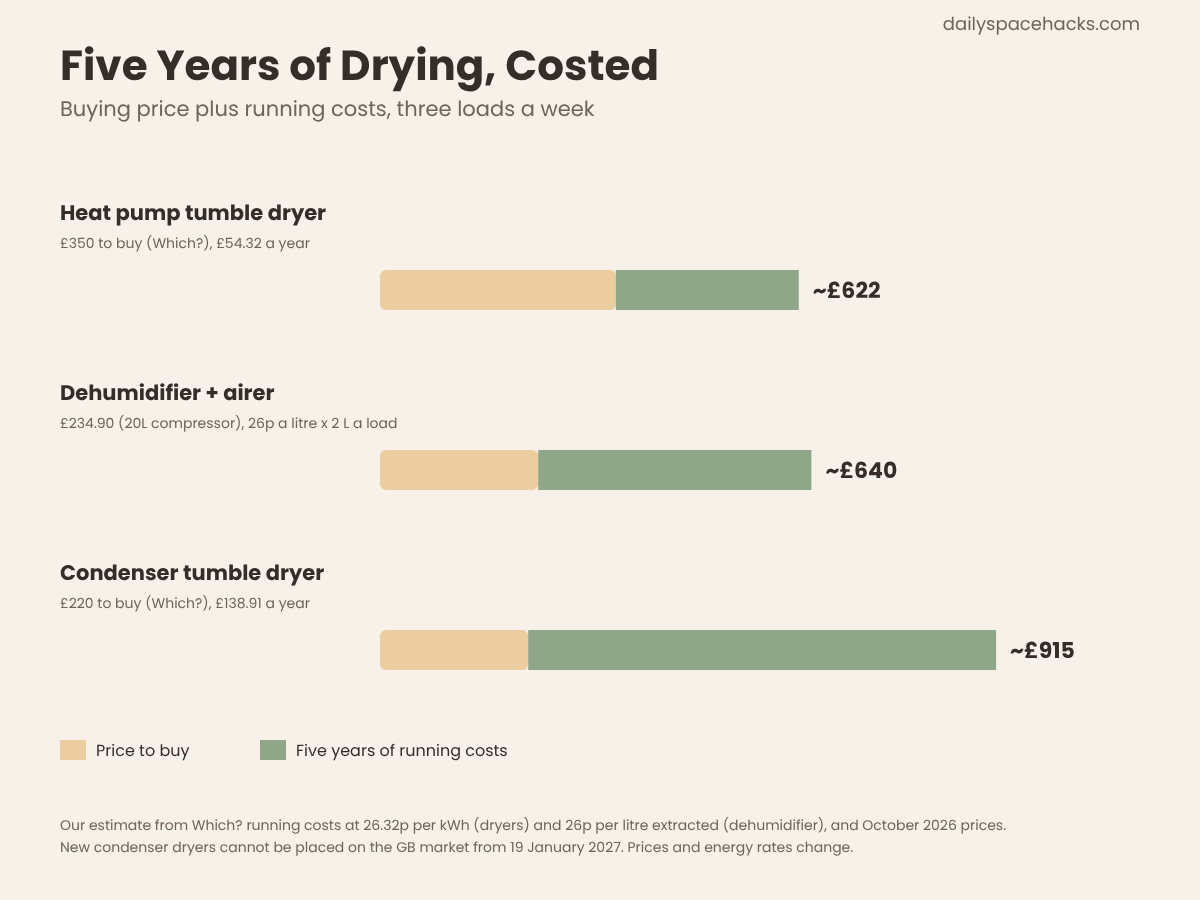
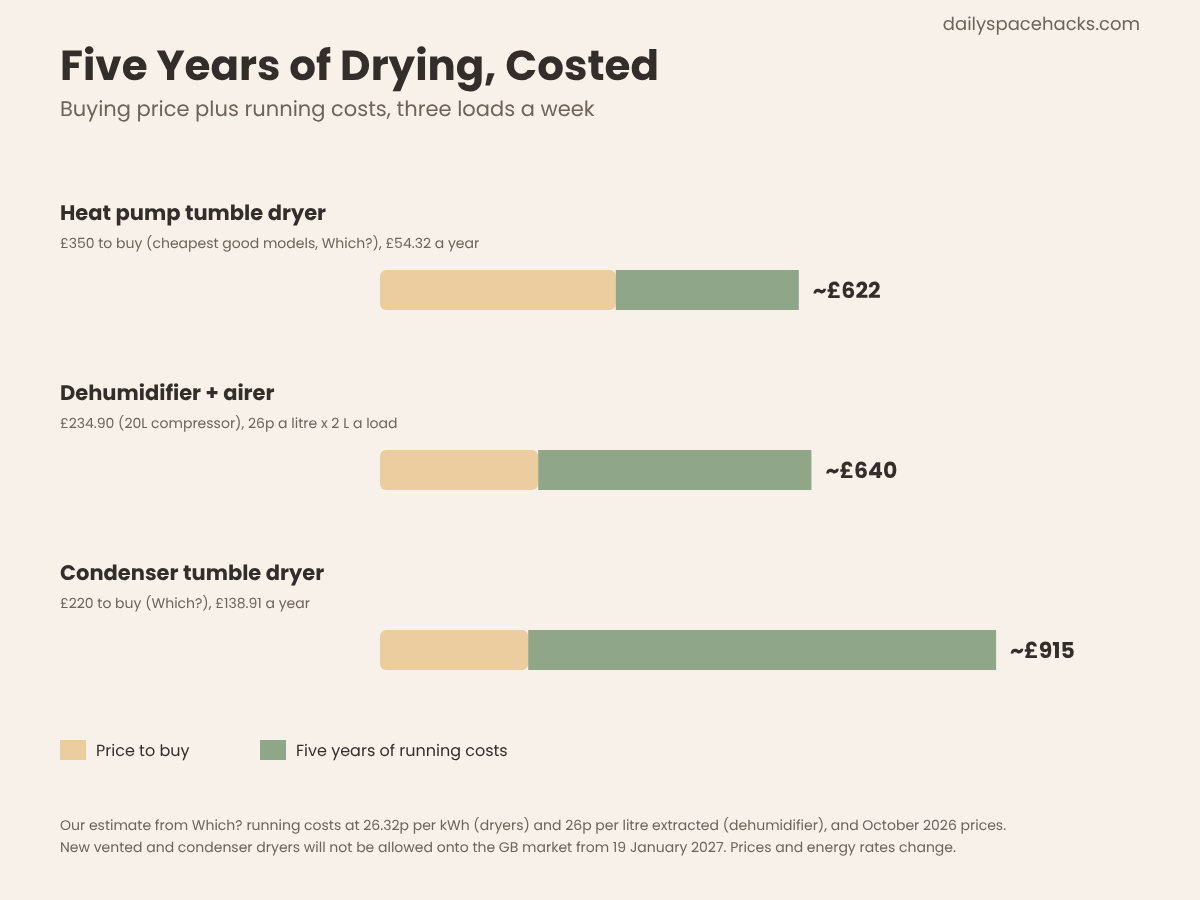
dehum: fact-check fixes

Changed region(s): [[0.0925, 0.9333, 0.8017, 0.9644], [0.1233, 0.2489, 0.4008, 0.28]]

diff --git a/tools/dehum/content.html b/tools/dehum/content.html
@@ -1,5 +1,5 @@
 <!-- wp:paragraph -->
-<p>In the dehumidifier vs tumble dryer choice for drying clothes, a heat pump tumble dryer is usually cheaper per load and much faster than a dehumidifier, but a dehumidifier is cheaper to buy, takes up less space and also dries out a damp home. Which? tested both and found a dehumidifier <a href="https://www.which.co.uk/news/article/can-you-use-a-dehumidifier-to-dry-laundry-aX79m5I0XFVm" target="_blank" rel="noopener">would still cost more and take longer</a> than the most cost-effective tumble dryers. Over five years, though, our sums put a dehumidifier and airer within about £20 of a heat pump dryer.</p>
+<p>For drying clothes, a heat pump tumble dryer is usually cheaper per load and faster than a dehumidifier, but a dehumidifier is cheaper to buy, takes up less space and also dries out a damp home. Which? tested both and found a dehumidifier <a href="https://www.which.co.uk/news/article/can-you-use-a-dehumidifier-to-dry-laundry-aX79m5I0XFVm" target="_blank" rel="noopener">would still cost more and take longer</a> than the most cost-effective tumble dryers. Over five years, though, our sums put a dehumidifier and airer within about £20 of one of the cheapest heat pump dryers, and about £130 cheaper than a more typical £500 model.</p>
 <!-- /wp:paragraph -->
 
 <!-- wp:list -->
@@ -23,7 +23,7 @@
 <!-- /wp:heading -->
 
 <!-- wp:table -->
-<figure class="wp-block-table"><table><thead><tr><th></th><th>Dehumidifier + airer</th><th>Heat pump dryer</th><th>Condenser dryer</th></tr></thead><tbody><tr><td>Cost per load</td><td><a href="https://www.which.co.uk/news/article/can-you-use-a-dehumidifier-to-dry-laundry-aX79m5I0XFVm" target="_blank" rel="noopener">about 52p</a> (26p a litre, about 2 litres)</td><td>about 35p</td><td>about 89p</td></tr><tr><td>Yearly running cost (3 loads a week)</td><td>about £81 (our estimate)</td><td><a href="https://www.which.co.uk/news/article/which-type-of-tumble-dryers-are-cheapest-to-run-aUOSv7x39Rdo" target="_blank" rel="noopener">£54.32</a></td><td>£138.91</td></tr><tr><td>Typical price to buy</td><td>£140 to £310</td><td>£327 to £1,699 (avg £727)</td><td><a href="https://www.which.co.uk/reviews/tumble-dryers/article/how-to-buy-the-best-tumble-dryer-a2Xa42O3YWK7" target="_blank" rel="noopener">£220 to £529</a></td></tr><tr><td>Drying time</td><td>Slower; Which? says it almost halves airer time</td><td>Hours</td><td>Hours</td></tr><tr><td>Also dries the house</td><td>Yes</td><td>No</td><td>No</td></tr><tr><td>Space</td><td>Small, moves room to room</td><td>Needs a dedicated spot</td><td>Needs a dedicated spot</td></tr></tbody></table></figure>
+<figure class="wp-block-table"><table><thead><tr><th></th><th>Dehumidifier + airer</th><th>Heat pump dryer</th><th>Condenser dryer</th></tr></thead><tbody><tr><td>Cost per load</td><td><a href="https://www.which.co.uk/news/article/can-you-use-a-dehumidifier-to-dry-laundry-aX79m5I0XFVm" target="_blank" rel="noopener">about 52p</a> (our estimate: Which?'s 26p a litre x about 2 litres)</td><td>about 35p</td><td>about 89p</td></tr><tr><td>Yearly running cost (3 loads a week)</td><td>about £81 (our estimate)</td><td><a href="https://www.which.co.uk/news/article/which-type-of-tumble-dryers-are-cheapest-to-run-aUOSv7x39Rdo" target="_blank" rel="noopener">£54.32</a></td><td>£138.91</td></tr><tr><td>Typical price to buy</td><td><a href="https://www.which.co.uk/news/article/best-dehumidifier-deals-ayGLW4e9tn3o" target="_blank" rel="noopener">about £140 to £400</a></td><td>£327 to £1,699 (avg £727)</td><td><a href="https://www.which.co.uk/reviews/tumble-dryers/article/how-to-buy-the-best-tumble-dryer-a2Xa42O3YWK7" target="_blank" rel="noopener">£220 to £529</a></td></tr><tr><td>Drying time</td><td>Slower; Which? found it almost halves drying time</td><td>Hours</td><td>Hours</td></tr><tr><td>Also dries the house</td><td>Yes</td><td>No</td><td>No</td></tr><tr><td>Space</td><td>Small, moves room to room</td><td>Needs a dedicated spot</td><td>Needs a dedicated spot</td></tr></tbody></table></figure>
 <!-- /wp:table -->
 
 <!-- wp:paragraph -->
@@ -35,11 +35,11 @@
 <!-- /wp:heading -->
 
 <!-- wp:html -->
-<figure class="dsh-diagram"><svg xmlns="http://www.w3.org/2000/svg" viewBox="0 0 1200 900" font-family="Poppins, sans-serif" role="img" aria-labelledby="dh-t dh-d"><title id="dh-t">Five-year cost of drying laundry</title><desc id="dh-d">Estimated five-year cost of drying three loads a week (156 loads a year). Heat pump tumble dryer: £350 to buy plus about £54 a year, about £622 over five years; Dehumidifier + airer: £235 to buy plus about £81 a year, about £640 over five years; Condenser tumble dryer: £220 to buy plus about £139 a year, about £915 over five years. Purchase prices and running costs from Which? and retailer listings, October 2026; totals are our estimate.</desc><rect width="1200" height="900" fill="#F7F1E9"/><text x="60" y="80" font-size="42" font-weight="700" fill="#342E2A">Five Years of Drying, Costed</text><text x="60" y="116" font-size="21" fill="#6E645C">Buying price plus running costs, three loads a week</text><text x="1140" y="30" font-size="18" fill="#6E645C" text-anchor="end">dailyspacehacks.com</text><text x="60" y="220" font-size="21" font-weight="700" fill="#342E2A">Heat pump tumble dryer</text><text x="60" y="248" font-size="14" fill="#6E645C">£350 to buy (Which?), £54.32 a year</text><rect x="380" y="270" width="235.8" height="40" rx="6" fill="#ECCDA0"/><rect x="615.8" y="270" width="183.0" height="40" fill="#8FA689"/><text x="812.8" y="298" font-size="22" font-weight="700" fill="#342E2A">~£622</text><text x="60" y="400" font-size="21" font-weight="700" fill="#342E2A">Dehumidifier + airer</text><text x="60" y="428" font-size="14" fill="#6E645C">£234.90 (20L compressor), 26p a litre x 2 L a load</text><rect x="380" y="450" width="158.2" height="40" rx="6" fill="#ECCDA0"/><rect x="538.2" y="450" width="273.2" height="40" fill="#8FA689"/><text x="825.5" y="478" font-size="22" font-weight="700" fill="#342E2A">~£640</text><text x="60" y="580" font-size="21" font-weight="700" fill="#342E2A">Condenser tumble dryer</text><text x="60" y="608" font-size="14" fill="#6E645C">£220 to buy (Which?), £138.91 a year</text><rect x="380" y="630" width="148.2" height="40" rx="6" fill="#ECCDA0"/><rect x="528.2" y="630" width="467.9" height="40" fill="#8FA689"/><text x="1010.1" y="658" font-size="22" font-weight="700" fill="#342E2A">~£915</text><rect x="60" y="740" width="26" height="20" fill="#ECCDA0"/><text x="96" y="756" font-size="16" fill="#342E2A">Price to buy</text><rect x="260" y="740" width="26" height="20" fill="#8FA689"/><text x="296" y="756" font-size="16" fill="#342E2A">Five years of running costs</text><text x="60" y="830" font-size="14" fill="#6E645C">Our estimate from Which? running costs at 26.32p per kWh (dryers) and 26p per litre extracted (dehumidifier), and October 2026 prices.</text><text x="60" y="852" font-size="14" fill="#6E645C">New condenser dryers cannot be placed on the GB market from 19 January 2027. Prices and energy rates change.</text></svg><figcaption>Estimated five-year cost: heat pump dryer about £622, dehumidifier and airer about £640, condenser dryer about £915.</figcaption></figure>
+<figure class="dsh-diagram"><svg xmlns="http://www.w3.org/2000/svg" viewBox="0 0 1200 900" font-family="Poppins, sans-serif" role="img" aria-labelledby="dh-t dh-d"><title id="dh-t">Five-year cost of drying laundry</title><desc id="dh-d">Estimated five-year cost of drying three loads a week (156 loads a year). Heat pump tumble dryer: £350 to buy plus about £54 a year, about £622 over five years; Dehumidifier + airer: £235 to buy plus about £81 a year, about £640 over five years; Condenser tumble dryer: £220 to buy plus about £139 a year, about £915 over five years. Purchase prices and running costs from Which? and retailer listings, October 2026; totals are our estimate.</desc><rect width="1200" height="900" fill="#F7F1E9"/><text x="60" y="80" font-size="42" font-weight="700" fill="#342E2A">Five Years of Drying, Costed</text><text x="60" y="116" font-size="21" fill="#6E645C">Buying price plus running costs, three loads a week</text><text x="1140" y="30" font-size="18" fill="#6E645C" text-anchor="end">dailyspacehacks.com</text><text x="60" y="220" font-size="21" font-weight="700" fill="#342E2A">Heat pump tumble dryer</text><text x="60" y="248" font-size="14" fill="#6E645C">£350 to buy (cheapest good models, Which?), £54.32 a year</text><rect x="380" y="270" width="235.8" height="40" rx="6" fill="#ECCDA0"/><rect x="615.8" y="270" width="183.0" height="40" fill="#8FA689"/><text x="812.8" y="298" font-size="22" font-weight="700" fill="#342E2A">~£622</text><text x="60" y="400" font-size="21" font-weight="700" fill="#342E2A">Dehumidifier + airer</text><text x="60" y="428" font-size="14" fill="#6E645C">£234.90 (20L compressor), 26p a litre x 2 L a load</text><rect x="380" y="450" width="158.2" height="40" rx="6" fill="#ECCDA0"/><rect x="538.2" y="450" width="273.2" height="40" fill="#8FA689"/><text x="825.5" y="478" font-size="22" font-weight="700" fill="#342E2A">~£640</text><text x="60" y="580" font-size="21" font-weight="700" fill="#342E2A">Condenser tumble dryer</text><text x="60" y="608" font-size="14" fill="#6E645C">£220 to buy (Which?), £138.91 a year</text><rect x="380" y="630" width="148.2" height="40" rx="6" fill="#ECCDA0"/><rect x="528.2" y="630" width="467.9" height="40" fill="#8FA689"/><text x="1010.1" y="658" font-size="22" font-weight="700" fill="#342E2A">~£915</text><rect x="60" y="740" width="26" height="20" fill="#ECCDA0"/><text x="96" y="756" font-size="16" fill="#342E2A">Price to buy</text><rect x="260" y="740" width="26" height="20" fill="#8FA689"/><text x="296" y="756" font-size="16" fill="#342E2A">Five years of running costs</text><text x="60" y="830" font-size="14" fill="#6E645C">Our estimate from Which? running costs at 26.32p per kWh (dryers) and 26p per litre extracted (dehumidifier), and October 2026 prices.</text><text x="60" y="852" font-size="14" fill="#6E645C">New vented and condenser dryers will not be allowed onto the GB market from 19 January 2027. Prices and energy rates change.</text></svg><figcaption>Estimated five-year cost: heat pump dryer about £622, dehumidifier and airer about £640, condenser dryer about £915.</figcaption></figure>
 <!-- /wp:html -->
 
 <!-- wp:paragraph -->
-<p>To settle dehumidifier vs tumble dryer on cost, our estimate adds the price to buy to five years of running costs at three loads a week. A heat pump dryer at around £350, which Which? says is what <a href="https://www.which.co.uk/reviews/tumble-dryers/article/how-to-buy-the-best-tumble-dryer-a2Xa42O3YWK7" target="_blank" rel="noopener">good heat pump dryers</a> can cost, comes to about £622. A 20-litre compressor dehumidifier with a laundry mode, listed at <a href="https://airconcentre.co.uk/products/meacodry-20l-arete-one-dehumidifier-white" target="_blank" rel="noopener">£234.90</a>, plus 52p a load comes to about £640. A condenser dryer is cheapest to buy but about £915 over five years. Prices and energy rates will change, so use these as a guide.</p>
+<p>Our estimate adds the price to buy to five years of running costs at three loads a week. A heat pump dryer at around £350, the price of <a href="https://www.which.co.uk/reviews/tumble-dryers/article/how-to-buy-the-best-tumble-dryer-a2Xa42O3YWK7" target="_blank" rel="noopener">a handful of good heat pump dryers</a> according to Which? (most cost £500 or more), comes to about £622; at £500 it is about £772. A 20-litre compressor dehumidifier with a laundry mode, listed at <a href="https://airconcentre.co.uk/products/meacodry-20l-arete-one-dehumidifier-white" target="_blank" rel="noopener">£234.90</a>, plus 52p a load comes to about £640. A condenser dryer is cheapest to buy but about £915 over five years. Prices and energy rates will change, so use these as a guide.</p>
 <!-- /wp:paragraph -->
 
 <!-- wp:heading -->
@@ -55,7 +55,7 @@
 <!-- /wp:paragraph -->
 
 <!-- wp:paragraph -->
-<p>A dehumidifier does two jobs. Which? found it <a href="https://www.which.co.uk/news/article/can-you-use-a-dehumidifier-to-dry-laundry-aX79m5I0XFVm" target="_blank" rel="noopener">almost halved the drying time</a> compared with an airer alone in the same room, and it also pulled around two litres of water out of the air. Manchester City Council says drying clothes indoors <a href="https://www.manchester.gov.uk/dampness" target="_blank" rel="noopener">can add 10 - 15 litres of water a week</a>, and that a dehumidifier helps reduce moisture. Dorset Council puts normal indoor humidity at around 40 to 55%, with the risk rising above 60%.</p>
+<p>A dehumidifier does two jobs. Which? found it <a href="https://www.which.co.uk/news/article/can-you-use-a-dehumidifier-to-dry-laundry-aX79m5I0XFVm" target="_blank" rel="noopener">almost halved the drying time</a> compared with an identical load dried without one, and it also pulled around two litres of water out of the air. Manchester City Council says drying clothes indoors <a href="https://www.manchester.gov.uk/dampness" target="_blank" rel="noopener">can add 10 to 15 litres of water a week</a>, and that a dehumidifier helps reduce moisture. <a href="https://www.dorsetcouncil.gov.uk/documents/35024/282001/How+to+prevent+damp+mould+and+condensation+in+your+home.pdf/52c52240-9d1b-39c5-4401-e665cc6e5a69" target="_blank" rel="noopener">Dorset Council</a> puts normal indoor humidity at around 40 to 55%, with the risk rising above 60%.</p>
 <!-- /wp:paragraph -->
 
 <!-- wp:paragraph -->
@@ -79,11 +79,27 @@
 <!-- /wp:paragraph -->
 
 <!-- wp:paragraph -->
-<p>A heat pump dryer is the cheapest tumble dryer to run. Which? puts it at about £54.32 a year for three loads a week at the current price cap, against about £139 for condenser and vented models. It costs more to buy: Which? lists heat pump dryers from £327 to £1,699. From 19 January 2027, new vented, condenser and gas dryers can no longer be placed on the market in Great Britain, so heat pump dryers will be the main choice for new machines. Our <a href="https://dailyspacehacks.com/heat-pump-vs-condenser-dryer/">heat pump vs condenser dryer guide</a> explains the rule and the running costs in detail.</p>
+<p>A heat pump dryer is the cheapest tumble dryer to run. Which? puts it at about £54.32 a year for three loads a week at the current price cap, against about £139 for condenser and £140 for vented models. It costs more to buy: Which? lists heat pump dryers from £327 to £1,699. From 19 January 2027, new vented, condenser and gas-fired dryers will no longer be allowed onto the market in Great Britain, <a href="https://retra.co.uk/news/tumble-dryer-sales-restrictions-to-come-into-force-in-2027/" target="_blank" rel="noopener">RETRA reports</a>, so heat pump dryers will be the main choice for new machines. Our <a href="https://dailyspacehacks.com/heat-pump-vs-condenser-dryer/">heat pump vs condenser dryer guide</a> explains the rule and the running costs in detail.</p>
 <!-- /wp:paragraph -->
 
 <!-- wp:paragraph -->
-<p><strong>Avoid if:</strong> you have no space, or you rent and cannot install one. Look after it safely: Cornwall Fire and Rescue advises you to <a href="https://www.cornwall.gov.uk/fire-and-rescue-service/keeping-safe/fire-safety/fire-safety-at-home/washing-machines-and-tumble-dryers/" target="_blank" rel="noopener">clean the filter in your dryer after every use</a> and never leave it running overnight.</p>
+<p><strong>Avoid if:</strong> you have no space, or you rent and cannot install one. Look after it safely: Cornwall Fire and Rescue advises you to <a href="https://www.cornwall.gov.uk/fire-and-rescue-service/keeping-safe/fire-safety/fire-safety-at-home/washing-machines-and-tumble-dryers/" target="_blank" rel="noopener">clean the filter in your dryer after every use</a> and never leave it unattended or running overnight.</p>
+<!-- /wp:paragraph -->
+
+<!-- wp:heading -->
+<h2 class="wp-block-heading">Condenser Tumble Dryer: Cheapest to Buy</h2>
+<!-- /wp:heading -->
+
+<!-- wp:paragraph -->
+<p><strong>Best for:</strong> people who already own one, and anyone who needs a dryer now on the smallest upfront budget.</p>
+<!-- /wp:paragraph -->
+
+<!-- wp:paragraph -->
+<p>Condenser dryers are the cheapest to buy, with Which? listing them from £220 to £529, and they need no vent to the outside. But they cost the most to run: about <a href="https://www.which.co.uk/news/article/which-type-of-tumble-dryers-are-cheapest-to-run-aUOSv7x39Rdo" target="_blank" rel="noopener">£138.91 a year</a> for three loads a week at the current price cap, more than twice a heat pump dryer. Over five years that makes them the most expensive option in our sums.</p>
+<!-- /wp:paragraph -->
+
+<!-- wp:paragraph -->
+<p><strong>Avoid if:</strong> running costs matter to you, or you are buying a new machine after January 2027.</p>
 <!-- /wp:paragraph -->
 
 <!-- wp:heading -->
@@ -101,7 +117,7 @@
 <li><strong>Damp, mould or an unheated room:</strong> a dehumidifier, desiccant if the room is below about 10°C.</li>
 <!-- /wp:list-item -->
 <!-- wp:list-item -->
-<li><strong>Already own a condenser dryer:</strong> keep using it; the GB rule only affects new machines being sold.</li>
+<li><strong>Already own a condenser dryer:</strong> you can keep using and repairing it; RETRA says the rule covers new machines only, and second-hand sales stay allowed.</li>
 <!-- /wp:list-item --></ul>
 <!-- /wp:list -->
 
@@ -123,7 +139,7 @@
 <li>Do you need clothes dry in a few hours? <strong>Yes:</strong> heat pump dryer.</li>
 <!-- /wp:list-item -->
 <!-- wp:list-item -->
-<li>Is your budget under about £250? <strong>Yes:</strong> dehumidifier.</li>
+<li>Is your budget under about £250 and are running costs a worry? <strong>Yes:</strong> dehumidifier.</li>
 <!-- /wp:list-item --></ol>
 <!-- /wp:list -->
 

diff --git a/tools/dehum/build.py b/tools/dehum/build.py
@@ -4,6 +4,8 @@ IMG={int(k):tuple(v) for k,v in json.load(open('img.json')).items()}
 SRC={
 "wd":"https://www.which.co.uk/news/article/can-you-use-a-dehumidifier-to-dry-laundry-aX79m5I0XFVm",
 "wc":"https://www.which.co.uk/news/article/which-type-of-tumble-dryers-are-cheapest-to-run-aUOSv7x39Rdo",
+"deals":"https://www.which.co.uk/news/article/best-dehumidifier-deals-ayGLW4e9tn3o",
+"retra":"https://retra.co.uk/news/tumble-dryer-sales-restrictions-to-come-into-force-in-2027/",
 "wb":"https://www.which.co.uk/reviews/tumble-dryers/article/how-to-buy-the-best-tumble-dryer-a2Xa42O3YWK7",
 "wt":"https://www.which.co.uk/reviews/tumble-dryers/article/advice/energy-saving-tumble-drying-tips",
 "meaco":"https://blog.meaco.com/when-to-buy-a-desiccant-dehumidifier-and-when-to-buy-a-compressor-dehumidifier",
@@ -15,9 +17,9 @@ SRC={
 def SR(k,t): return ext(SRC[k],t)
 LOADS=156
 dh=round(0.26*2*LOADS,2)
-tot_hp=round(350+54.32*5); tot_dh=round(234.90+dh*5); tot_c=round(220+138.91*5)
+tot_hp=round(350+54.32*5); tot_hp5=round(500+54.32*5); tot_dh=round(234.90+dh*5); tot_c=round(220+138.91*5)
 
-p(f"In the dehumidifier vs tumble dryer choice for drying clothes, a heat pump tumble dryer is usually cheaper per load and much faster than a dehumidifier, but a dehumidifier is cheaper to buy, takes up less space and also dries out a damp home. Which? tested both and found a dehumidifier {SR('wd','would still cost more and take longer')} than the most cost-effective tumble dryers. Over five years, though, our sums put a dehumidifier and airer within about £20 of a heat pump dryer.")
+p(f"For drying clothes, a heat pump tumble dryer is usually cheaper per load and faster than a dehumidifier, but a dehumidifier is cheaper to buy, takes up less space and also dries out a damp home. Which? tested both and found a dehumidifier {SR('wd','would still cost more and take longer')} than the most cost-effective tumble dryers. Over five years, though, our sums put a dehumidifier and airer within about £20 of one of the cheapest heat pump dryers, and about £130 cheaper than a more typical £500 model.")
 lst(["<strong>Choose a heat pump tumble dryer</strong> if you wash most days, need clothes dry in hours, and have room for one.",
 "<strong>Choose a dehumidifier</strong> if you rent, have no space for a dryer, or also battle condensation and mould.",
 "<strong>Avoid a new condenser dryer</strong> if running costs matter; it costs the most to run of the three."])
@@ -25,43 +27,48 @@ img(1)
 
 h2("Dehumidifier vs Tumble Dryer at a Glance")
 table(["","Dehumidifier + airer","Heat pump dryer","Condenser dryer"],[
-["Cost per load",SR('wd','about 52p')+" (26p a litre, about 2 litres)","about 35p","about 89p"],
+["Cost per load",SR('wd','about 52p')+" (our estimate: Which?'s 26p a litre x about 2 litres)","about 35p","about 89p"],
 ["Yearly running cost (3 loads a week)",f"about £{dh:.0f} (our estimate)",SR('wc','£54.32'),"£138.91"],
-["Typical price to buy","£140 to £310","£327 to £1,699 (avg £727)",SR('wb','£220 to £529')],
-["Drying time","Slower; Which? says it almost halves airer time","Hours","Hours"],
+["Typical price to buy",SR('deals','about £140 to £400'),"£327 to £1,699 (avg £727)",SR('wb','£220 to £529')],
+["Drying time","Slower; Which? found it almost halves drying time","Hours","Hours"],
 ["Also dries the house","Yes","No","No"],
 ["Space","Small, moves room to room","Needs a dedicated spot","Needs a dedicated spot"]])
 p("Tumble dryer running costs are from Which? at the October to December 2026 price cap of 26.32p per kWh. The dehumidifier cost per load uses Which?'s average of 26p per litre of water extracted.")
 
 h2("What Five Years Actually Costs")
 diagram(open('z.svg').read(),f"Estimated five-year cost: heat pump dryer about £{tot_hp}, dehumidifier and airer about £{tot_dh}, condenser dryer about £{tot_c}.")
-p(f"To settle dehumidifier vs tumble dryer on cost, our estimate adds the price to buy to five years of running costs at three loads a week. A heat pump dryer at around £350, which Which? says is what {SR('wb','good heat pump dryers')} can cost, comes to about £{tot_hp}. A 20-litre compressor dehumidifier with a laundry mode, listed at {SR('arete','£234.90')}, plus 52p a load comes to about £{tot_dh}. A condenser dryer is cheapest to buy but about £{tot_c} over five years. Prices and energy rates will change, so use these as a guide.")
+p(f"Our estimate adds the price to buy to five years of running costs at three loads a week. A heat pump dryer at around £350, the price of {SR('wb','a handful of good heat pump dryers')} according to Which? (most cost £500 or more), comes to about £{tot_hp}; at £500 it is about £{tot_hp5}. A 20-litre compressor dehumidifier with a laundry mode, listed at {SR('arete','£234.90')}, plus 52p a load comes to about £{tot_dh}. A condenser dryer is cheapest to buy but about £{tot_c} over five years. Prices and energy rates will change, so use these as a guide.")
 
 h2("Dehumidifier: Best for Small Homes and Damp")
 img(2)
 p(f"<strong>Best for:</strong> flats and rentals with no room or venting for a dryer, homes with condensation, and anyone who dries washing on airers already.")
-p(f"A dehumidifier does two jobs. Which? found it {SR('wd','almost halved the drying time')} compared with an airer alone in the same room, and it also pulled around two litres of water out of the air. Manchester City Council says drying clothes indoors {SR('man','can add 10 - 15 litres of water a week')}, and that a dehumidifier helps reduce moisture. Dorset Council puts normal indoor humidity at around 40 to 55%, with the risk rising above 60%.")
+p(f"A dehumidifier does two jobs. Which? found it {SR('wd','almost halved the drying time')} compared with an identical load dried without one, and it also pulled around two litres of water out of the air. Manchester City Council says drying clothes indoors {SR('man','can add 10 to 15 litres of water a week')}, and that a dehumidifier helps reduce moisture. {SR('dorset','Dorset Council')} puts normal indoor humidity at around 40 to 55%, with the risk rising above 60%.")
 p(f"Pick the right type. Meaco says a desiccant dehumidifier is better {SR('meaco','for temperatures below 10°C')}, such as an unheated utility room or garage, while compressor models are generally cheaper to run in a heated home. Which? advises keeping the unit at least 20cm from walls or furniture, and Meaco's manual says to place it on a {SR('manual','flat stable surface')} with the air vents clear.")
 p(f"<strong>Avoid if:</strong> you need a full load dry in a couple of hours, or you dry several loads a day. Our guide on {a('how-to-dry-clothes-indoors','how to dry clothes indoors')} covers the rest of the routine.")
 
 h2("Heat Pump Tumble Dryer: Best for Speed and Running Costs")
 img(3)
 p(f"<strong>Best for:</strong> families, people with no outdoor drying space, and anyone who wants towels dry the same evening.")
-p(f"A heat pump dryer is the cheapest tumble dryer to run. Which? puts it at about £54.32 a year for three loads a week at the current price cap, against about £139 for condenser and vented models. It costs more to buy: Which? lists heat pump dryers from £327 to £1,699. From 19 January 2027, new vented, condenser and gas dryers can no longer be placed on the market in Great Britain, so heat pump dryers will be the main choice for new machines. Our {a('heat-pump-vs-condenser-dryer','heat pump vs condenser dryer guide')} explains the rule and the running costs in detail.")
-p(f"<strong>Avoid if:</strong> you have no space, or you rent and cannot install one. Look after it safely: Cornwall Fire and Rescue advises you to {SR('corn','clean the filter in your dryer after every use')} and never leave it running overnight.")
+p(f"A heat pump dryer is the cheapest tumble dryer to run. Which? puts it at about £54.32 a year for three loads a week at the current price cap, against about £139 for condenser and £140 for vented models. It costs more to buy: Which? lists heat pump dryers from £327 to £1,699. From 19 January 2027, new vented, condenser and gas-fired dryers will no longer be allowed onto the market in Great Britain, {SR('retra','RETRA reports')}, so heat pump dryers will be the main choice for new machines. Our {a('heat-pump-vs-condenser-dryer','heat pump vs condenser dryer guide')} explains the rule and the running costs in detail.")
+p(f"<strong>Avoid if:</strong> you have no space, or you rent and cannot install one. Look after it safely: Cornwall Fire and Rescue advises you to {SR('corn','clean the filter in your dryer after every use')} and never leave it unattended or running overnight.")
+
+h2("Condenser Tumble Dryer: Cheapest to Buy")
+p(f"<strong>Best for:</strong> people who already own one, and anyone who needs a dryer now on the smallest upfront budget.")
+p(f"Condenser dryers are the cheapest to buy, with Which? listing them from £220 to £529, and they need no vent to the outside. But they cost the most to run: about {SR('wc','£138.91 a year')} for three loads a week at the current price cap, more than twice a heat pump dryer. Over five years that makes them the most expensive option in our sums.")
+p("<strong>Avoid if:</strong> running costs matter to you, or you are buying a new machine after January 2027.")
 
 h2("Our Pick")
 lst([f"<strong>Family, daily washing, a utility room:</strong> a heat pump tumble dryer. See our {a('small-utility-room-ideas','small utility room ideas')} for where it fits.",
 "<strong>One or two people in a flat:</strong> a compressor dehumidifier with a laundry mode and a good airer.",
 "<strong>Damp, mould or an unheated room:</strong> a dehumidifier, desiccant if the room is below about 10°C.",
-"<strong>Already own a condenser dryer:</strong> keep using it; the GB rule only affects new machines being sold."])
+"<strong>Already own a condenser dryer:</strong> you can keep using and repairing it; RETRA says the rule covers new machines only, and second-hand sales stay allowed."])
 
 h2("Decide in Five Questions")
 lst(["Do you dry more than four loads a week? <strong>Yes:</strong> heat pump dryer.",
 "Do you have condensation or mould in winter? <strong>Yes:</strong> dehumidifier.",
 "Is there no space or venting for a dryer? <strong>Yes:</strong> dehumidifier.",
 "Do you need clothes dry in a few hours? <strong>Yes:</strong> heat pump dryer.",
-"Is your budget under about £250? <strong>Yes:</strong> dehumidifier."],ordered=True)
+"Is your budget under about £250 and are running costs a worry? <strong>Yes:</strong> dehumidifier."],ordered=True)
 p(f"Short of room for an airer? Our {a('laundry-closet-ideas','laundry closet ideas')} and {a('airing-cupboard-shelves','airing cupboard shelves')} show where drying space can hide.")
 ai_note()
 html='\n\n'.join(out)

diff --git a/tools/dehum/svg.py b/tools/dehum/svg.py
@@ -1,6 +1,6 @@
 T='#342E2A';A='#C85A32';G='#6E645C';SG='#8FA689';SGL='#DCE5D6';BG='#F7F1E9';BR='#D8CBBB';SA='#ECCDA0'
 LOADS=3*52; YRS=5
-opts=[('Heat pump tumble dryer',350,54.32,'£350 to buy (Which?), £54.32 a year'),
+opts=[('Heat pump tumble dryer',350,54.32,'£350 to buy (cheapest good models, Which?), £54.32 a year'),
 ('Dehumidifier + airer',234.90,0.26*2*LOADS,'£234.90 (20L compressor), 26p a litre x 2 L a load'),
 ('Condenser tumble dryer',220,138.91,'£220 to buy (Which?), £138.91 a year')]
 rows=[(n,b,r,b+r*YRS,note) for n,b,r,note in opts]
@@ -25,7 +25,7 @@ for n,b,r,t,note in rows:
 a(f'<rect x="60" y="{y+10}" width="26" height="20" fill="{SA}"/><text x="96" y="{y+26}" font-size="16" fill="{T}">Price to buy</text>')
 a(f'<rect x="260" y="{y+10}" width="26" height="20" fill="{SG}"/><text x="296" y="{y+26}" font-size="16" fill="{T}">Five years of running costs</text>')
 a(f'<text x="60" y="830" font-size="14" fill="{G}">Our estimate from Which? running costs at 26.32p per kWh (dryers) and 26p per litre extracted (dehumidifier), and October 2026 prices.</text>')
-a(f'<text x="60" y="852" font-size="14" fill="{G}">New condenser dryers cannot be placed on the GB market from 19 January 2027. Prices and energy rates change.</text>')
+a(f'<text x="60" y="852" font-size="14" fill="{G}">New vented and condenser dryers will not be allowed onto the GB market from 19 January 2027. Prices and energy rates change.</text>')
 a('</svg>')
 open('z.svg','w').write(''.join(s))
 for n,b,r,t,_ in rows: print(n,round(b),round(r,2),round(t))
